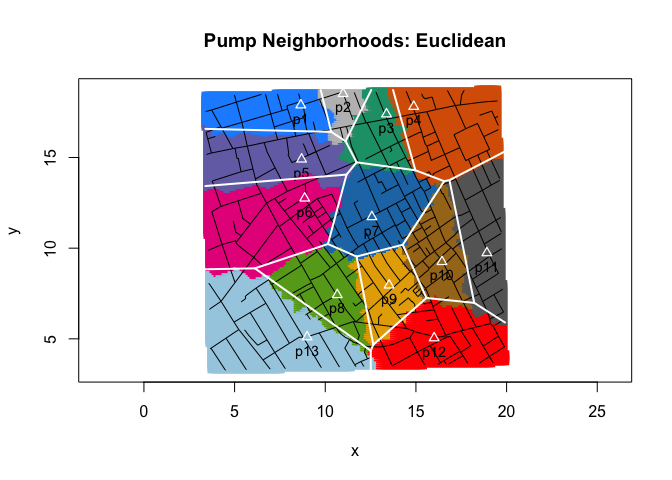
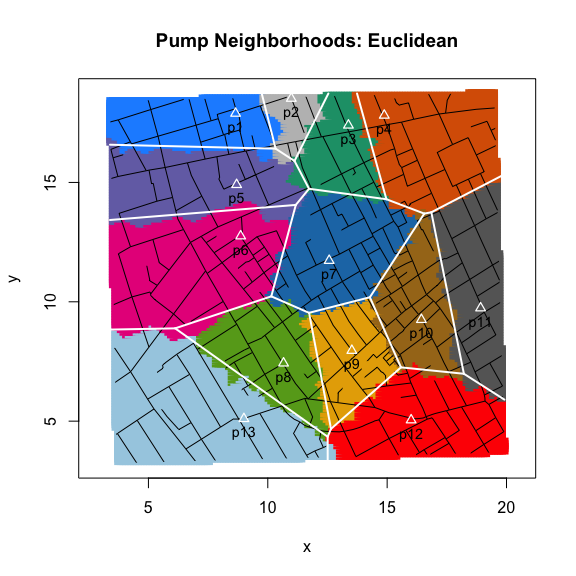
test plot size

diff --git a/docs/euclidean.voronoi.md b/docs/euclidean.voronoi.md
@@ -34,4 +34,7 @@ cholera::addVoronoi(case.location = "nominal", color = "white", lwd = 2)
 
 ![](euclidean.voronoi_files/figure-markdown_github/nominal-1.png)
 
+notes
+-----
+
 [1] Steven Fortune. 1987. "A Sweepline Algorithm for Voronoi Diagrams". *Algorithmica*. 2:153-174.
